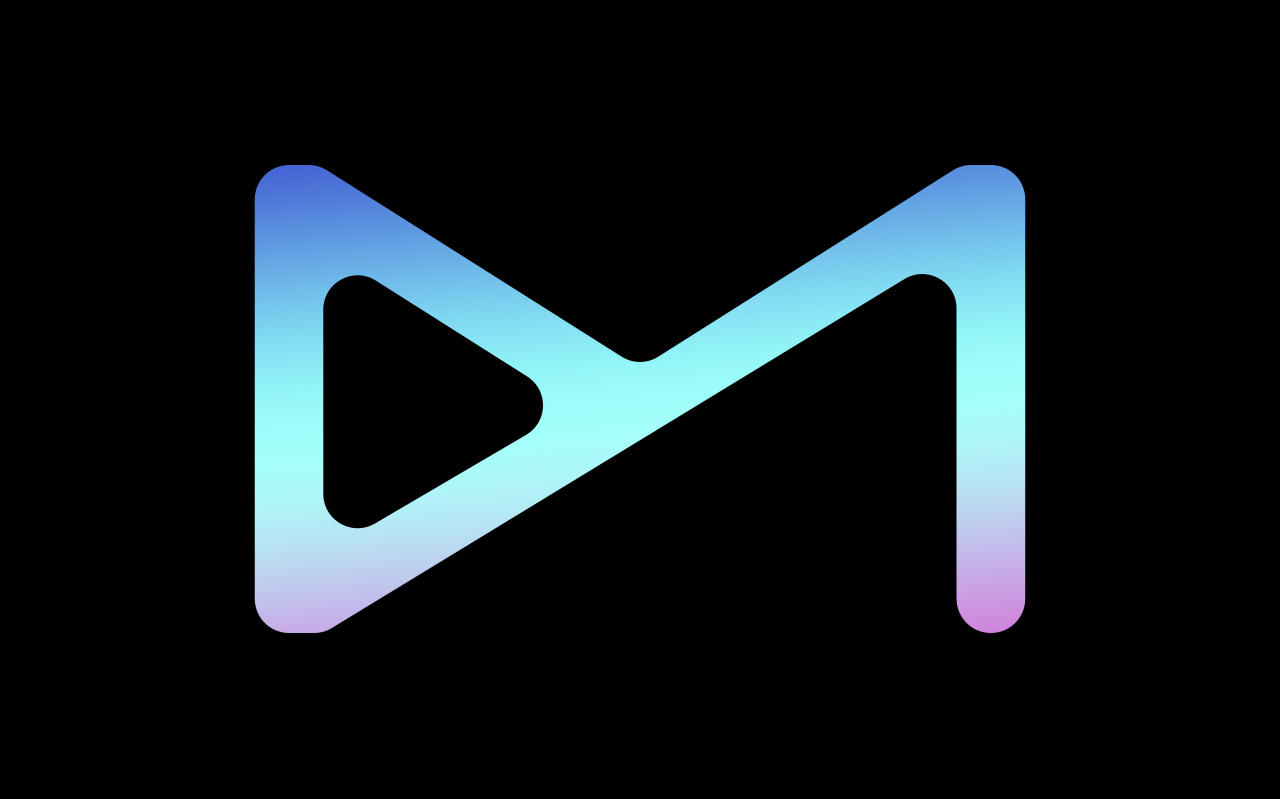
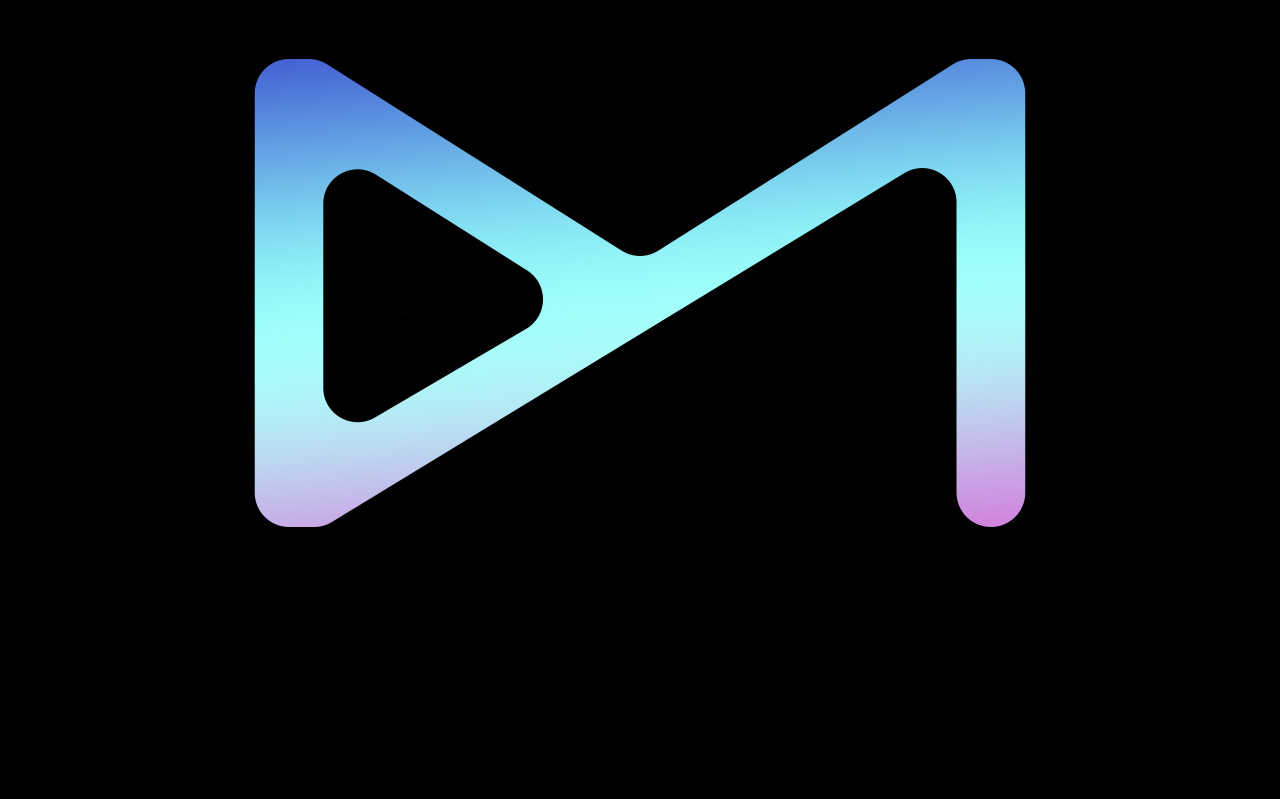
ilk 100 lira

Changed region(s): [[0.1875, 0.0601, 0.8125, 0.811]]

diff --git a/src/sections/hero/Hero.js b/src/sections/hero/Hero.js
@@ -42,8 +42,9 @@ class Hero extends React.Component {
                 width: 100%;
                 height: 100%;
             }
+            padding-top:30px;
             background-image: url(${this.props.background.childImageSharp.fluid.src});
-            background-size: cover;
+            background-size:  cover;
             background-repeat: no-repeat;
         `
 
@@ -81,10 +82,10 @@ class Hero extends React.Component {
             color: #fff;
             font-weight: 700;
             text-transform: uppercase;
-            background: -webkit-linear-gradient(left, #00ffff , #007a7a);
-            background: -o-linear-gradient(right, #00ffff, #007a7a);
-            background: -moz-linear-gradient(right, #00ffff, #007a7a);
-            background: linear-gradient(to right, #00ffff , #007a7a); 
+            background: -webkit-linear-gradient(top, #da5bd3 , #a0fefa );
+            background: -o-linear-gradient(top, #da5bd3 , #a0fefa );
+            background: -moz-linear-gradient(top, #da5bd3 , #a0fefa );
+            background-image: linear-gradient(6deg, rgba(218,91,211,1) 0%, rgba(160,254,250,1) 48%, rgba(48,56,201,1) 100%);
            -webkit-background-clip: text;
            -webkit-text-fill-color: transparent;
             @media (max-width:767px) {
